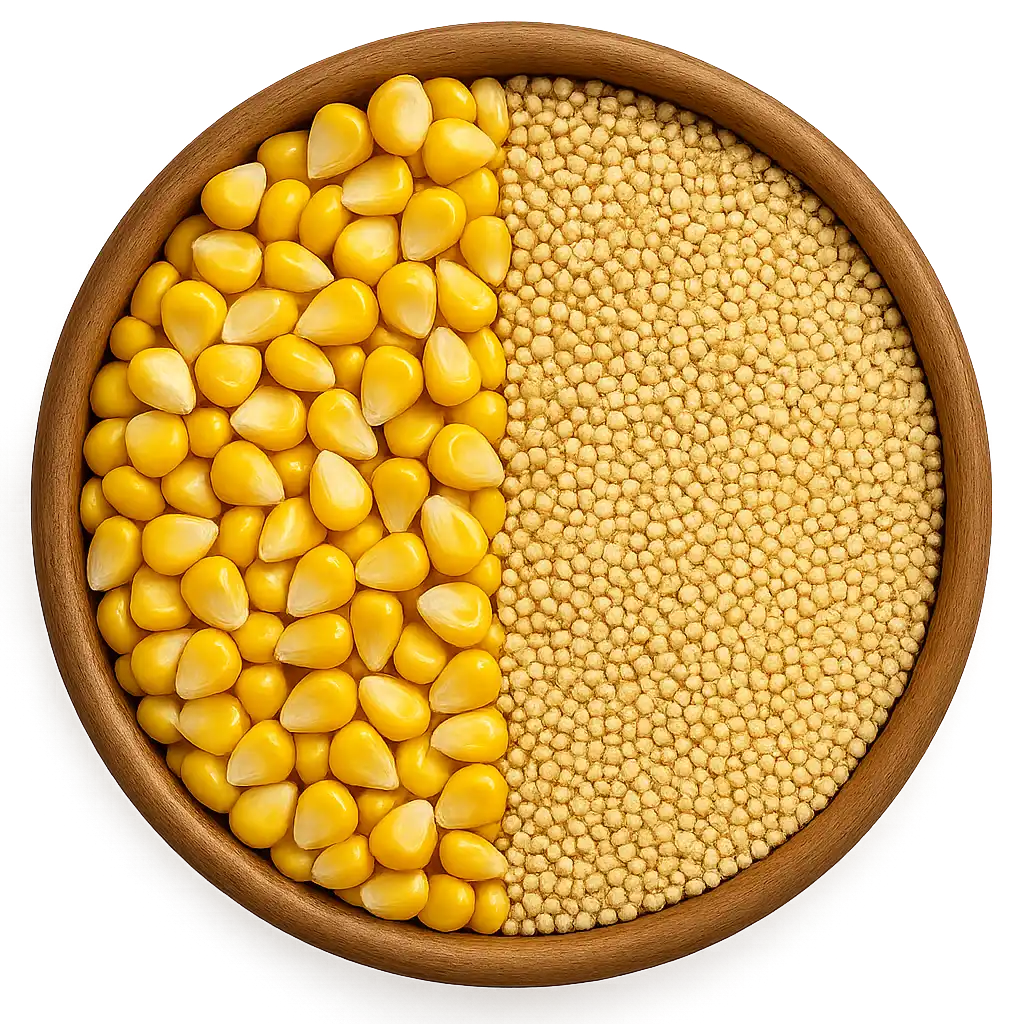
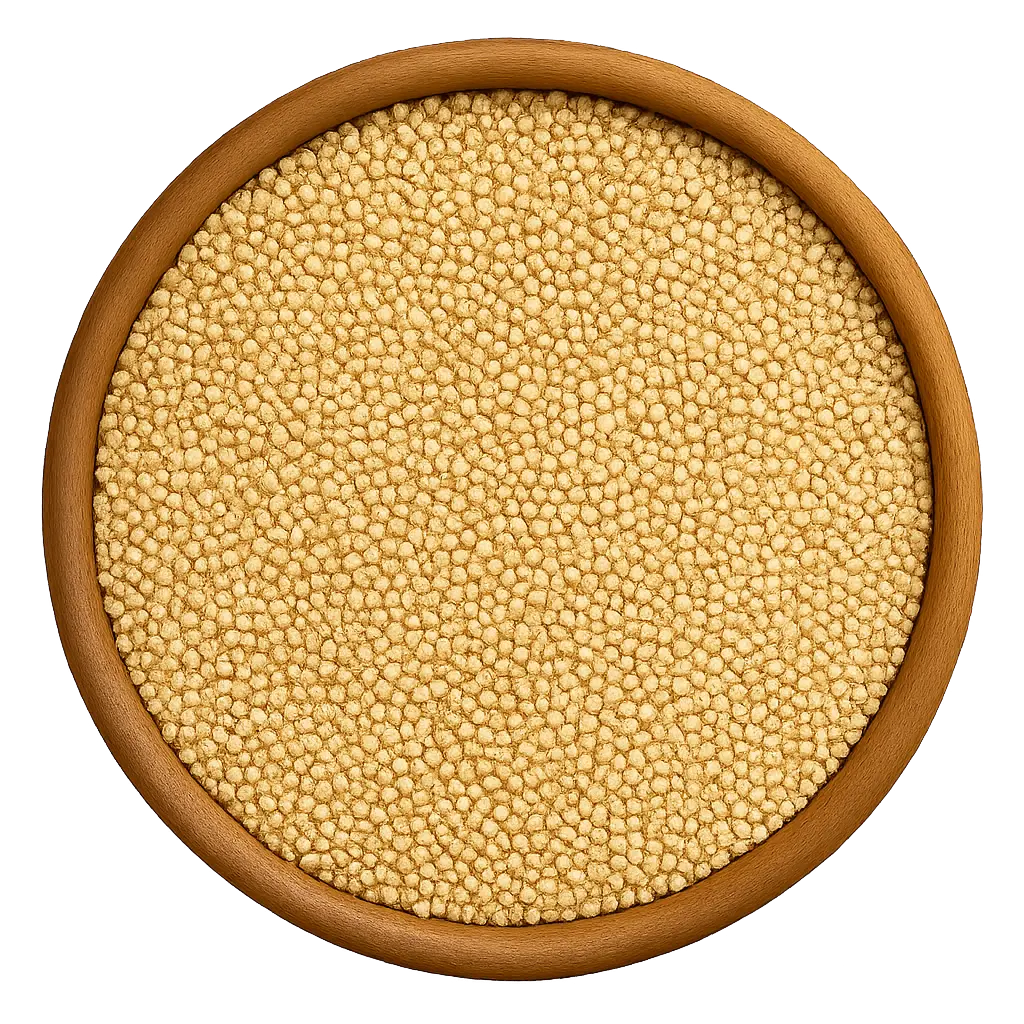
menu changekkksjj

diff --git a/src/components/Ingredients.js b/src/components/Ingredients.js
@@ -11,7 +11,7 @@ const ingredients = [
   { name: "Sorghum", description: "Rich in fiber and gluten free", image: "/jowar.webp" },
   { name: "Pearl Millet", description: "Packed with iron and boosts energy", image: "/bajra.webp" },
   { name: "Finger Millet", description: "Improves digestion", image: "/ragi.webp" },
-  { name: "Corn & Quinoa", description: "Rich in Fibre for a Healthy Gut", image: "/corn.webp" },
+  { name: "Quinoa", description: "Rich in Fibre for a Healthy Gut", image: "/corn.webp" },
   { name: "Pumpkin & Sunflower seeds", description: "Boosts heart health", image: "/pumpkin.webp" },
   { name: "Almonds & Cashews", description: "Lowers cholesterol levels", image: "/almonds.webp" },
   { name: "Mixed Berries", description: "Anti-inflammatory properties", image: "/raisins.webp" },

diff --git a/src/components/ThreeDMarqueeDemo.js b/src/components/ThreeDMarqueeDemo.js
@@ -4,13 +4,13 @@ import { Marquee } from "./Marquee";
 
 export function ThreeDMarqueeDemo() {
   const images = [
-    "/flakesbanner.webp",
-    "/farmik.webp",
-    "/snacksbanner.webp",
-    "/chocoflakesgpt.webp",
-    "/berryblastwithbg.webp",
-    "/MilletMuesliBelgianDarkChocolate.jpg",
-    "/banner4.jpg",
+    "/factoryin1.webp",
+    "/factory4.webp",
+    "/factoryinn5.webp",
+    "/factory3.webp",
+    "/factory1.webp",
+    "/farmtofactory.webp",
+    "/factory2.webp",
   ];
 
   // Repeat the images for a seamless marquee effect
